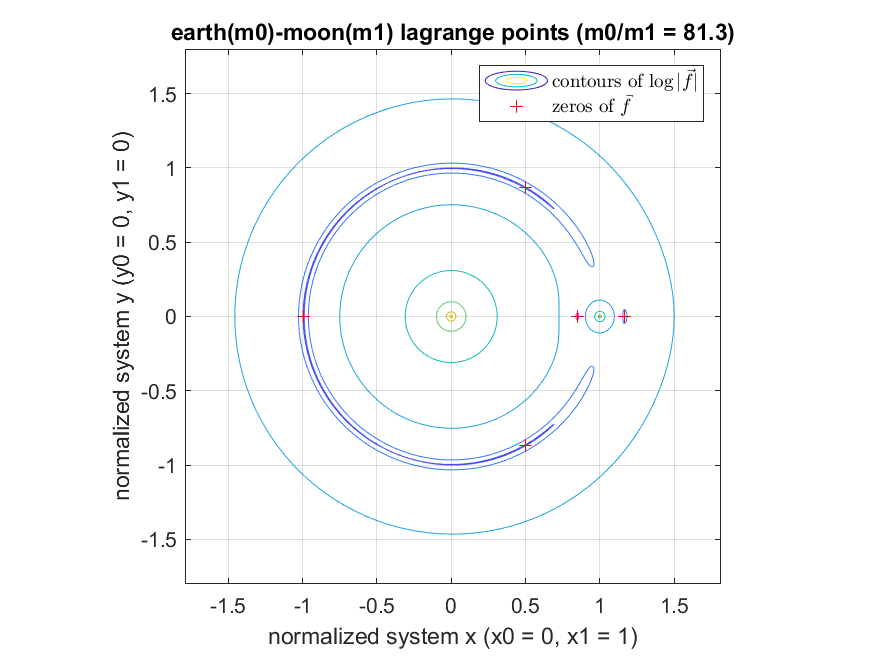
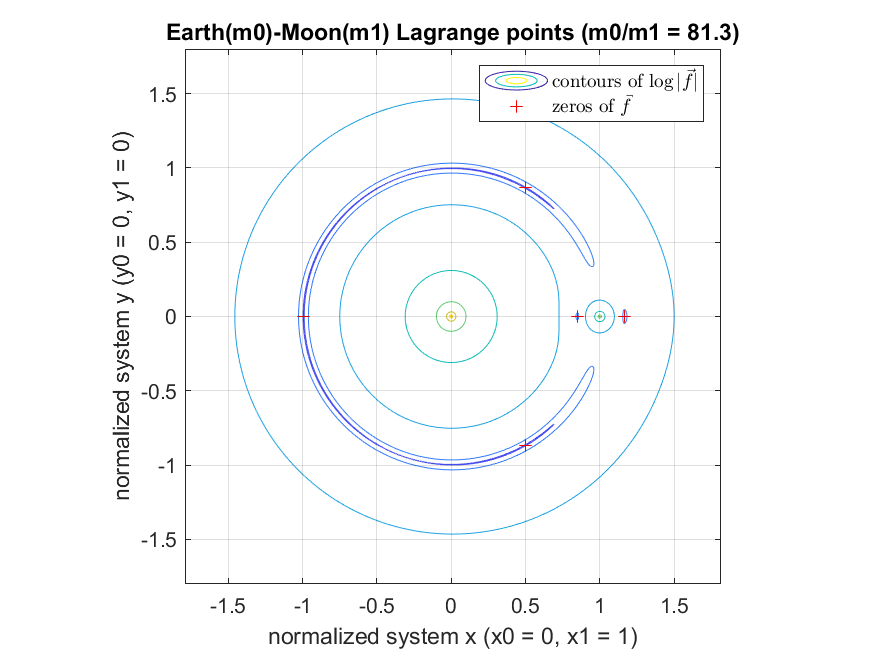
Fix capitalizations.

Changed region(s): [[0.1851, 0.0305, 0.864, 0.0915]]

diff --git a/read_me.m b/read_me.m
@@ -1,4 +1,4 @@
-% explanatory script of the lagrange point functions in this directory
+% explanatory script of the Lagrange point functions in this directory
 % earth-moon system
 % the moon is about 1/81.3 times the mass of the earth. In normalized
 % coordinates (earth-moon distance is 1.0):
@@ -13,7 +13,7 @@ hold on
 plot(xz,yz, 'r+')
 axis equal
 grid
-title('earth(m0)-moon(m1) lagrange points (m0/m1 = 81.3)')
+title('Earth(m0)-Moon(m1) Lagrange points (m0/m1 = 81.3)')
 xlabel('normalized system x (x0 = 0, x1 = 1)')
 ylabel('normalized system y (y0 = 0, y1 = 0)')
 legend({'contours of $\log{|\vec{f}|}$', 'zeros of $\vec{f}$'}, 'Interpreter', 'latex')
@@ -31,7 +31,7 @@ hold on
 plot(xz,yz, 'r+')
 axis equal
 grid
-title('sun(m0)-earth(m1) lagrange points (m0/m1 = 330000)')
+title('Sun(m0)-Earth(m1) Lagrange points (m0/m1 = 330000)')
 xlabel('normalized system x (x0 = 0, x1 = 1)')
 ylabel('normalized system y (y0 = 0, y1 = 0)')
 legend({'contours of $\log{|\vec{f}|}$', 'zeros of $\vec{f}$'}, 'Interpreter', 'latex')
@@ -43,7 +43,7 @@ axis([0.98 1.02 -0.02 0.02])
 plot(xz,yz, 'r+')
 axis([0.98 1.02 -0.02 0.02])
 grid
-title('sun(m0)-earth(m1) lagrange points (m0/m1 = 330000)')
+title('Sun(m0)-Earth(m1) Lagrange points (m0/m1 = 330000)')
 xlabel('normalized system x (x0 = 0, x1 = 1)')
 ylabel('normalized system y (y0 = 0, y1 = 0)')
 legend({'contours of $\log{|\vec{f}|}$', 'zeros of $\vec{f}$'}, 'Interpreter', 'latex')
@@ -60,7 +60,7 @@ hold on
 plot(xz,yz, 'r+')
 axis equal
 grid
-title('fictitious system 1 lagrange points (m0/m1 = 5)')
+title('Fictitious system 1 Lagrange points (m0/m1 = 5)')
 xlabel('normalized system x (x0 = 0, x1 = 1)')
 ylabel('normalized system y (y0 = 0, y1 = 0)')
 legend({'contours of $\log{|\vec{f}|}$', 'zeros of $\vec{f}$'}, 'Interpreter', 'latex')
@@ -77,7 +77,7 @@ hold on
 plot(xz,yz, 'r+')
 axis equal
 grid
-title('fictitious system 2 lagrange points (m0/m1 = 1)')
+title('Fictitious system 2 Lagrange points (m0/m1 = 1)')
 xlabel('normalized system x (x0 = 0, x1 = 1)')
 ylabel('normalized system y (y0 = 0, y1 = 0)')
 legend({'contours of $\log{|\vec{f}|}$', 'zeros of $\vec{f}$'}, 'Interpreter', 'latex')
